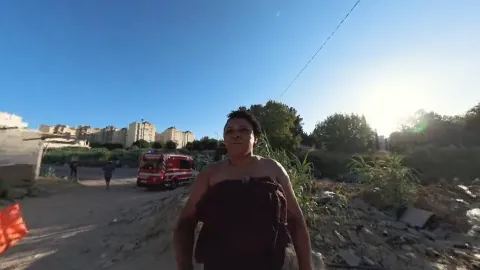
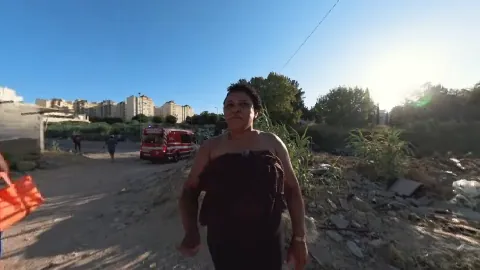
Vídeos 360: o seguimento da cara da Esvarena só vira para os lados
A mão de baixo (a que vai atrás da cara dela) deixou de subir e descer:
a vista fica sempre direita, no horizonte, e olhar para cima ou para
baixo é só de quem está a ver. A vista de abertura das três rotas passa
também a ser direita (inclinação 0), e as miniaturas das rotas foram
refeitas para baterem com ela.

diff --git a/public/video360.html b/public/video360.html
@@ -1348,8 +1348,8 @@
     </div>
 
     <script type="module">
-        import { fontesDeVideo, previaDe, olharInicialDe, ABERTURA_INICIAL, eOriginal, e360 } from './videos.mjs?v=8';
-        import { criarGestorDeQualidade, limiteDeTexturaDoAparelho } from './qualidade-video.mjs?v=9';
+        import { fontesDeVideo, previaDe, olharInicialDe, ABERTURA_INICIAL, eOriginal, e360 } from './videos.mjs?v=9';
+        import { criarGestorDeQualidade, limiteDeTexturaDoAparelho } from './qualidade-video.mjs?v=10';
         import { temCaminhoDaCara, olharDaCara } from './olhar-das-rotas.mjs?v=1';
 
         const urlParams = new URLSearchParams(window.location.search);
@@ -2450,10 +2450,15 @@
         // uma dentro da outra, para o horizonte nunca tombar quando se
         // olha para o lado. Dentro dos óculos é a cabeça de quem lá está
         // que manda, e aí a mão de baixo não entra.
+        //
+        // A mão de baixo só vira para os lados: para cima e para baixo fica
+        // sempre direita, no horizonte, mesmo quando a cara dela sobe ou
+        // desce (quem filma é mais alto ou mais baixo, ela baixa-se, sobe
+        // umas escadas). Olhar para cima ou para baixo é só da mão de
+        // cima, de quem está a ver.
         const SUAVIDADE_DO_SEGUIR = 0.35;   // segundos a chegar ao sítio
         const INCLINACAO_MAXIMA = Math.PI / 2;
         let baseVolta = olharInicial.yaw * RAD;          // a mão de baixo
-        let baseInclinacao = olharInicial.pitch * RAD;
 
         // Quanto falta virar, pelo caminho mais curto: meia volta para um
         // lado vale menos do que a volta toda para o outro.
@@ -2485,12 +2490,10 @@
             imagemAnterior = agora;
             if (saltou || !dt) {
                 baseVolta = alvo.yaw * RAD;
-                baseInclinacao = alvo.pitch * RAD;
                 return;
             }
             const parte = 1 - Math.exp(-dt / SUAVIDADE_DO_SEGUIR);
             baseVolta += faltaParaOAlvo(alvo.yaw * RAD, baseVolta) * parte;
-            baseInclinacao += (alvo.pitch * RAD - baseInclinacao) * parte;
         };
 
         // A cena vira a câmara a cada imagem a partir das duas peças do
@@ -2512,7 +2515,7 @@
                 const camara = this.el.object3D;
                 camara.rotation.y += baseVolta;
                 camara.rotation.x = Math.max(-INCLINACAO_MAXIMA,
-                    Math.min(INCLINACAO_MAXIMA, camara.rotation.x + baseInclinacao));
+                    Math.min(INCLINACAO_MAXIMA, camara.rotation.x));
             };
         };
         if (!ecraPlano) {

diff --git a/public/index.html b/public/index.html
@@ -5619,7 +5619,7 @@
         <pc-asset id="splat-scene" src="splat/lod-meta.json" type="gsplat"></pc-asset>
         <pc-asset id="camera-controls-script" src="./camera-controls.mjs?v=59" type="script"></pc-asset>
         <pc-asset id="camera-coords-script" src="./coords.mjs?v=7" type="script"></pc-asset>
-        <pc-asset id="annotations-script" src="./annotations.mjs?v=123" type="script"></pc-asset>
+        <pc-asset id="annotations-script" src="./annotations.mjs?v=124" type="script"></pc-asset>
         <pc-asset id="measure-script" src="./measure.mjs?v=1" type="script"></pc-asset>
         <pc-asset id="escala-script" src="./escala.mjs?v=2" type="script"></pc-asset>
         <pc-asset id="compass-script" src="./compass.mjs?v=3" type="script"></pc-asset>
